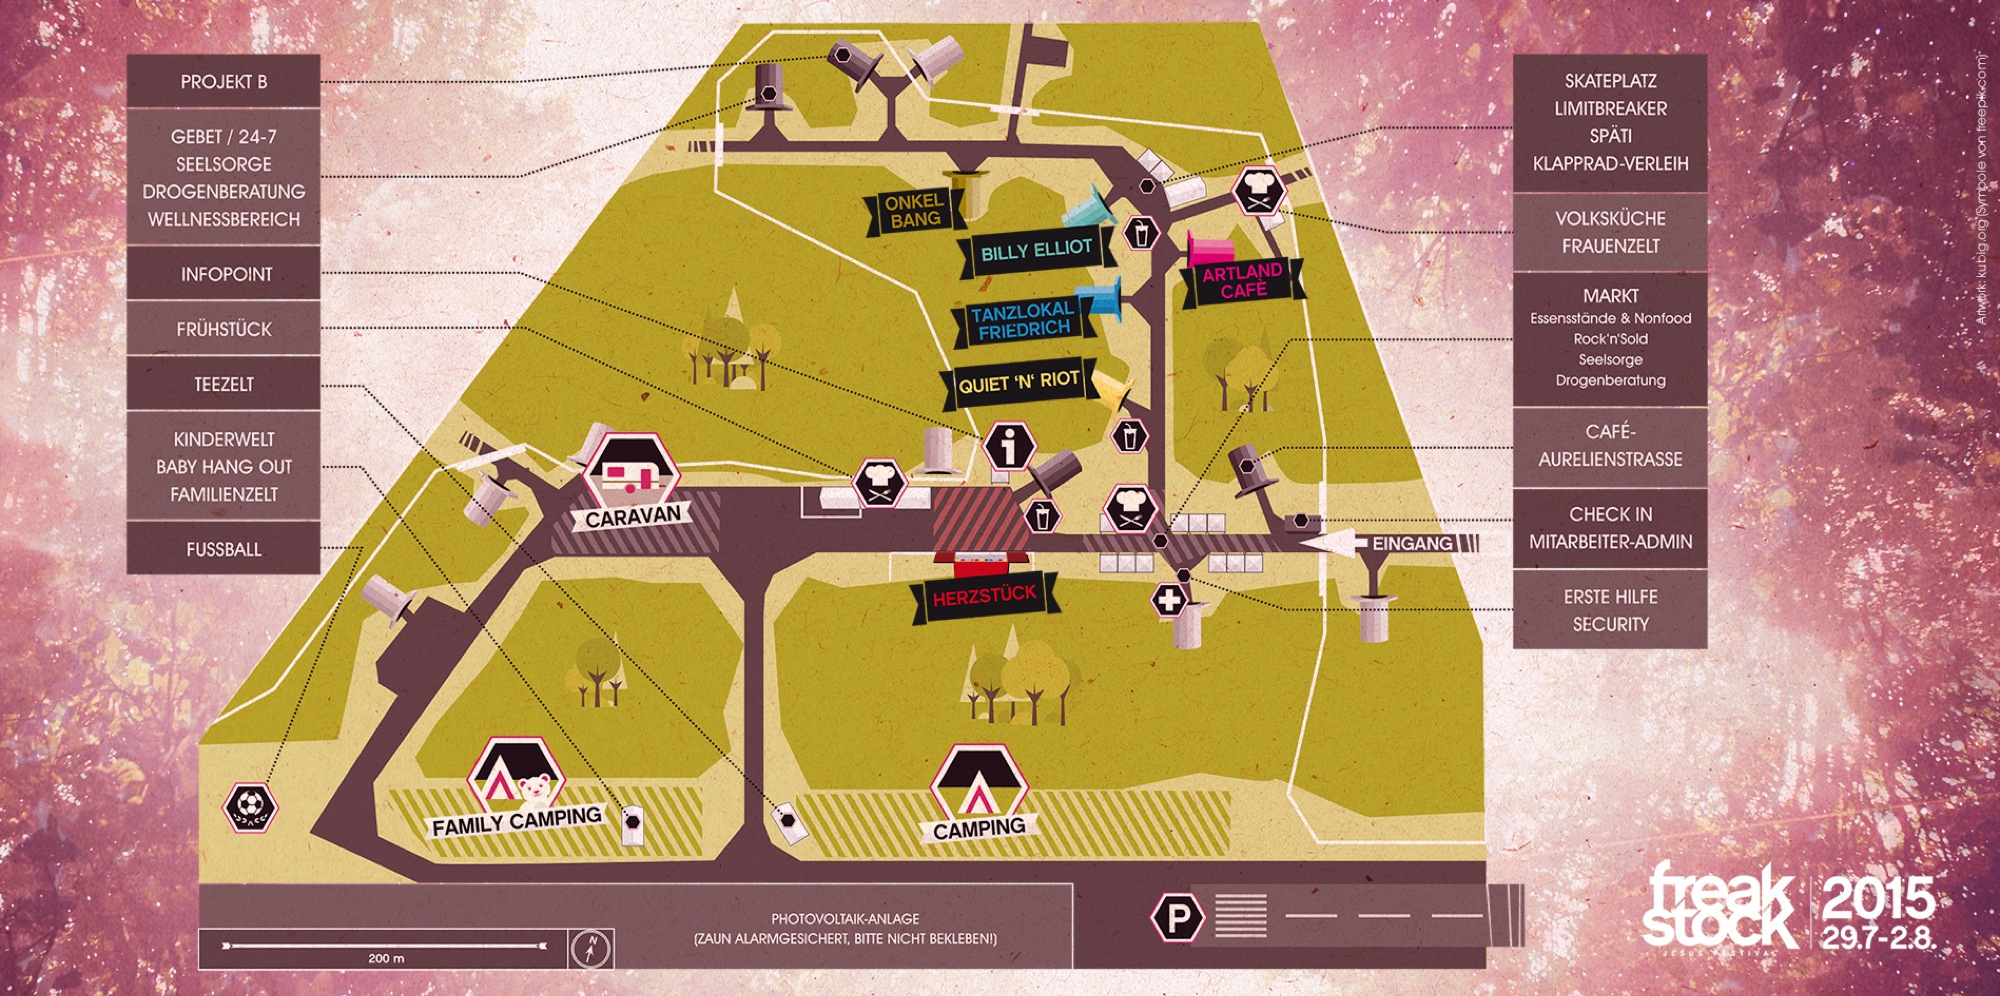
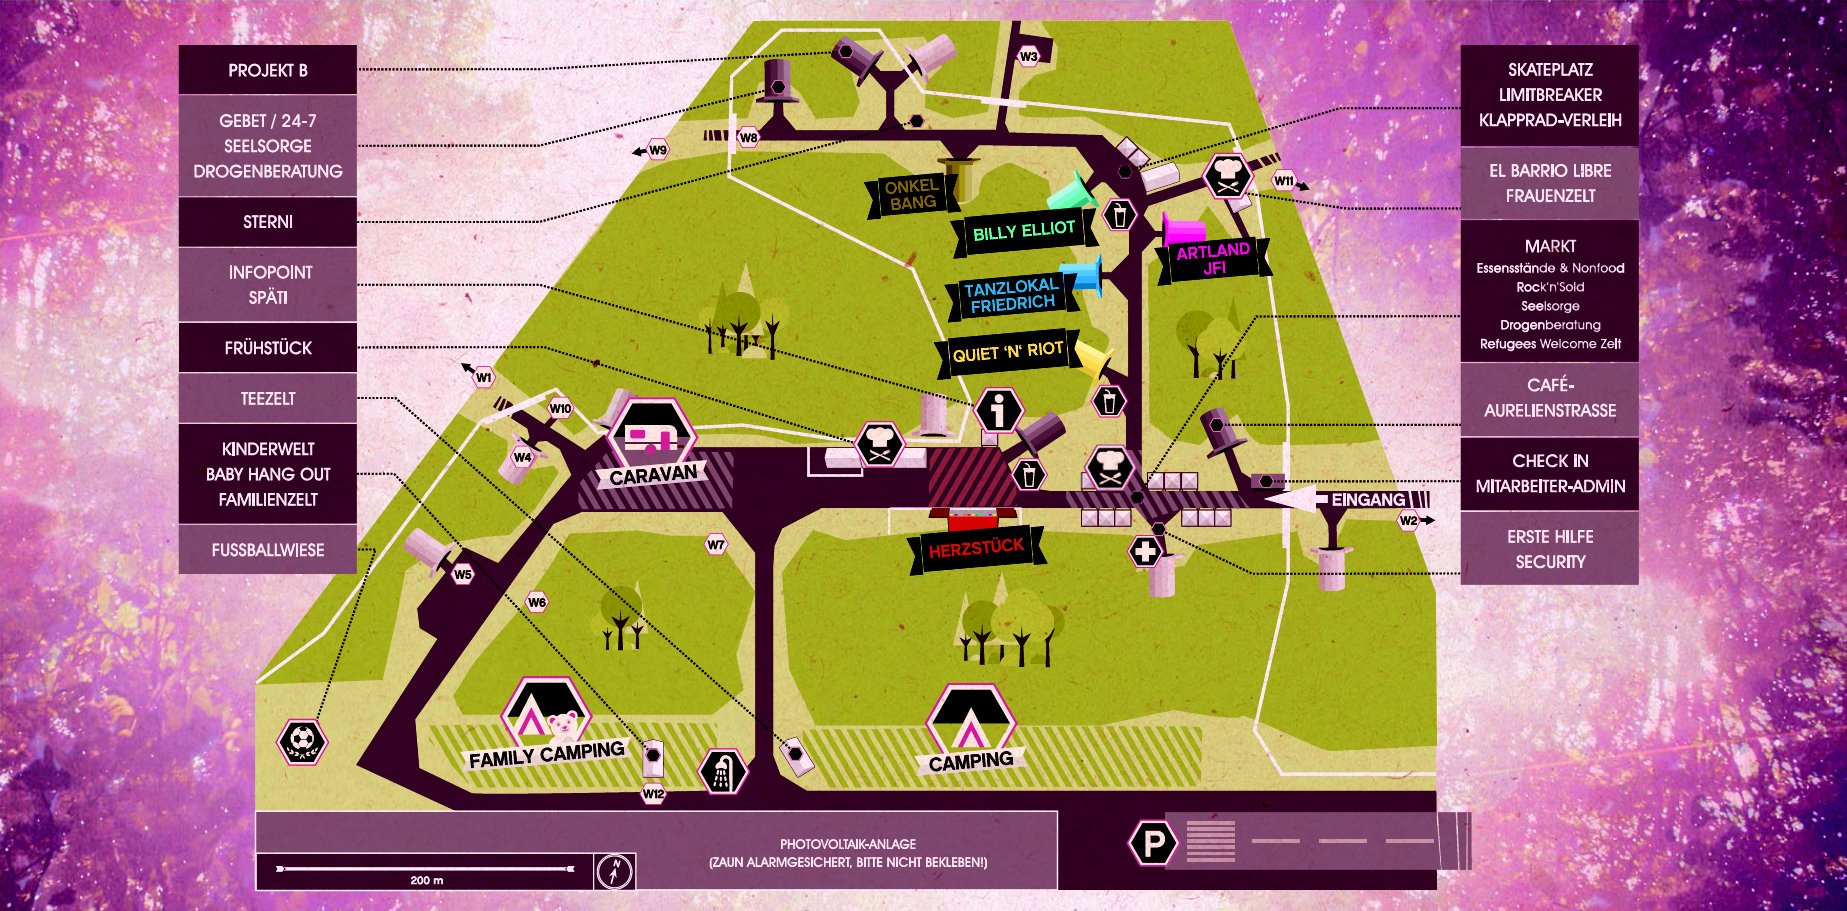
neuer geländeplan

diff --git a/app/scripts/directives/locations.js b/app/scripts/directives/locations.js
@@ -26,7 +26,7 @@ angular.module('fsMobile.directives').directive('locmap', function () {
 
     return {
         restrict: 'E',
-        template: '<div style="width: 2000px; height: 996px; background: url(\'{{imageUrl}}\')"></div>',
+        template: '<div style="width: 1847px; height: 911px; background: url(\'{{imageUrl}}\')"></div>',
         replace: true,
         require:'ngModel',
         scope: {
